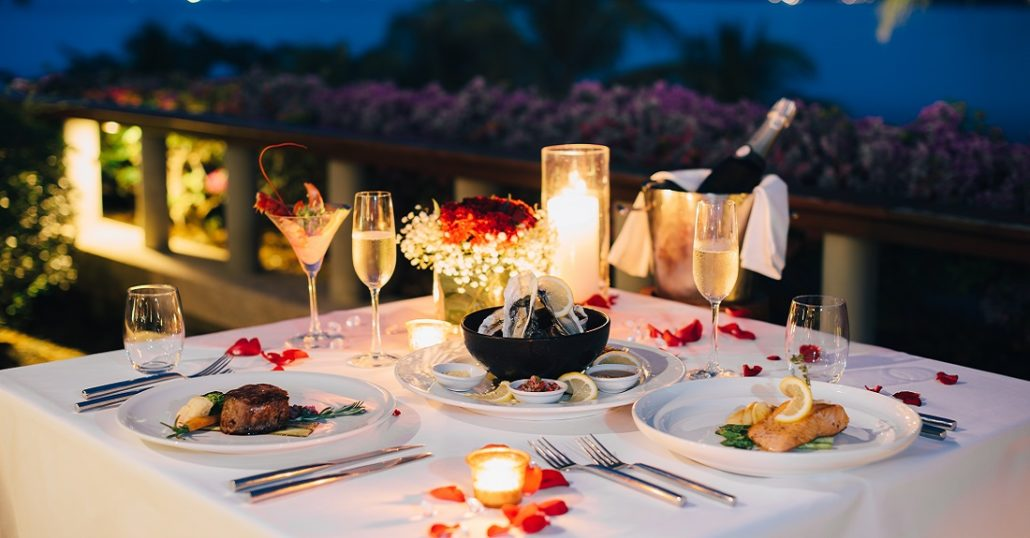
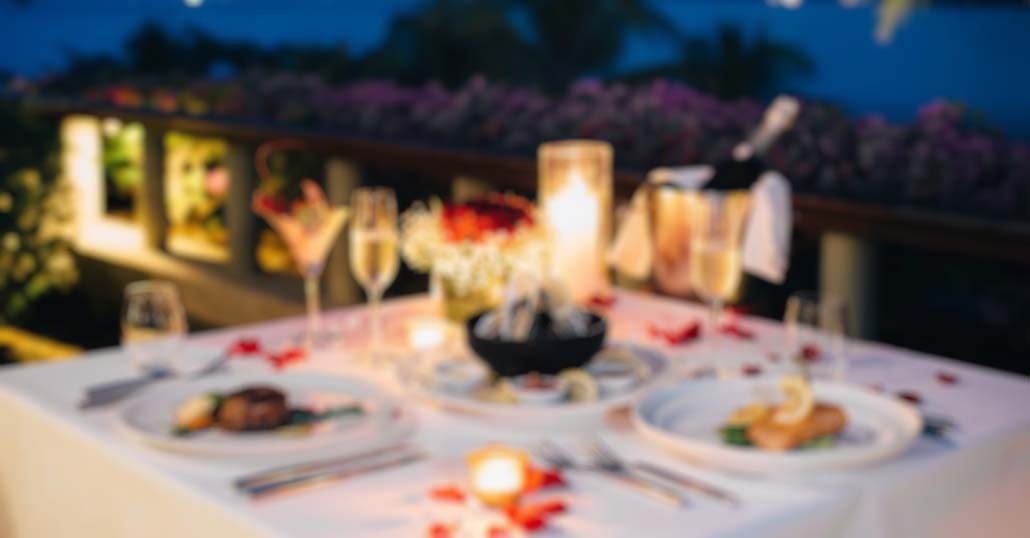
nav bar left buttons problem solved - blurred background

diff --git a/index.html b/index.html
@@ -17,26 +17,33 @@
             <header class="header">
                 <div class="nav_left">
                     <div class="logo">
-                        <a href="#home"
-                            ><img src="img/logos/logo.png" alt=""
-                        /></a>
+                        <a href="#home">
+                            <img
+                                src="img/logos/logo.png"
+                                alt="AWSI"
+                                title="AWSI"
+                            />
+                        </a>
                     </div>
-                    <hr />
-                    <a href="#1">
-                        <button><span class="icohome">Home</span></button>
-                    </a>
-                    <hr />
-                    <a href="#2">
-                        <button><span class="icoorder">Order</span></button>
-                    </a>
-                    <hr />
-                    <a href="#3">
-                        <button>
-                            <span class="icoaboutus">About Us</span>
-                        </button>
-                    </a>
-                    <hr />
+                    <div class="buttons">
+                        <hr />
+                        <a href="#1">
+                            <button><span class="icohome">Home</span></button>
+                        </a>
+                        <hr />
+                        <a href="#2">
+                            <button><span class="icoorder">Order</span></button>
+                        </a>
+                        <hr />
+                        <a href="#3">
+                            <button>
+                                <span class="icoabout">About us</span>
+                            </button>
+                        </a>
+                        <hr />
+                    </div>
                 </div>
+
                 <div class="nav_right">
                     <a href="#2">
                         <button><span>log in</span></button>
@@ -61,7 +68,7 @@
                                 laudantium accusantium at. Adipisci earum aut
                                 blanditiis velit nesciunt?
                             </p>
-                            <button>Order now!</button>
+                            <a href="#order"><button>Order now!</button></a>
                         </div>
                     </div>
                     <div class="card">
@@ -76,7 +83,7 @@
                                 laudantium accusantium at. Adipisci earum aut
                                 blanditiis velit nesciunt?
                             </p>
-                            <button>Order now!</button>
+                            <a href="#order"><button>Order now!</button></a>
                         </div>
                     </div>
                     <div class="card">
@@ -90,7 +97,7 @@
                                 placeat, assumenda laudantium accusantium at.
                                 Adipisci earum aut blanditiis velit nesciunt?
                             </p>
-                            <button>Order now!</button>
+                            <a href="#order"><button>Order now!</button></a>
                         </div>
                     </div>
                     <div class="card">
@@ -104,7 +111,7 @@
                                 placeat, assumenda laudantium accusantium at.
                                 Adipisci earum aut blanditiis velit nesciunt?
                             </p>
-                            <button>Order now!</button>
+                            <a href="#order"><button>Order now!</button></a>
                         </div>
                     </div>
                 </section>

diff --git a/style/style1.css b/style/style1.css
@@ -6,10 +6,9 @@
 html,
 body {
     height: 100%;
-    background-image: url(../img/food_bg_1.jpg);
+    background: url(../img/food_bg_1.jpg) center center fixed;
     background-size: cover;
     background-repeat: no-repeat;
-    background-position: center center fixed;
 }
 
 .wrap_body {
@@ -23,9 +22,76 @@ body {
     background-color: #264653;
     display: flex;
     align-items: center;
-    position: sticky;
     top: 0;
     z-index: 1;
+}
+
+.nav_left {
+    display: flex;
+    width: 50%;
+}
+
+.nav_left hr {
+    border: solid 1px rgba(255, 255, 255, 0.1);
+}
+
+.logo {
+    width: 50px;
+    padding: 10px;
+    display: flex;
+    align-items: center;
+    transition-duration: 0.2s;
+}
+
+.logo a img {
+    width: 100%;
+    transition-duration: 0.2s;
+}
+.logo img:hover {
+    transform: scale(1.3);
+}
+
+.buttons {
+    width: 100%;
+    display: flex;
+}
+.buttons a {
+    min-width: 20%;
+    max-width: 30%;
+    height: 100%;
+}
+
+.buttons a button {
+    width: 100%;
+    height: 100%;
+    background: #264653;
+    color: white;
+    font-size: 18px;
+    border: none;
+    transition: 0.3s;
+}
+
+.icohome {
+    max-height: 50px;
+    content: url(../img/icons/home.png);
+}
+
+.icoorder {
+    max-height: 40px;
+    content: url(../img/icons/ordernow.png);
+}
+
+.icoabout {
+    max-height: 50px;
+    content: url(../img/icons/aboutus.png);
+}
+
+.buttons a button:hover {
+    background: #356d83;
+}
+
+.buttons a button:hover span {
+    content: none;
 }
 .nav_right {
     width: 50%;
@@ -51,84 +117,6 @@ body {
 .nav_right button:hover span::after {
     content: " \00bb";
     transition-duration: 0.3s;
-}
-
-.nav_left {
-    display: flex;
-    width: 50%;
-}
-
-.nav_left button {
-    color: white;
-    height: 100%;
-    background: #264653;
-    width: 110px;
-    border: none;
-    font-size: 20px;
-    text-decoration: none;
-    transition-duration: 0.3s;
-}
-
-.nav_left button:hover {
-    background: #1c7792b9;
-    color: white;
-}
-
-.nav_left hr {
-    border: solid 1px rgba(255, 255, 255, 0.1);
-}
-
-.icohome {
-    content: url(../img/icons/home.png);
-    width: 50px;
-}
-
-.icoorder {
-    content: url(../img/icons/ordernow.png);
-    width: 50px;
-}
-
-.icoaboutus {
-    content: url(../img/icons/aboutus.png);
-    width: 50px;
-}
-
-.nav_left a button:hover span {
-    content: none;
-}
-
-/* .nav_left button {
-    background: #11c5fc;
-    width: 110px;
-    border: solid 2px #11c5fc;
-    margin: 5px;
-    padding: 10px;
-    font-size: 20px;
-    border-radius: 8px;
-    text-decoration: none;
-    transition-duration: 0.3s;
-}
-
-.nav_left button:hover {
-    background: #1c7792b9;
-    border: solid 2px white;
-    color: white;
-} */
-
-.logo {
-    margin: 10px;
-    margin-right: 40px;
-    display: flex;
-    align-items: center;
-    transition-duration: 0.2s;
-}
-
-.logo img {
-    width: 50px;
-    transition-duration: 0.2s;
-}
-.logo img:hover {
-    transform: scale(1.3);
 }
 
 .main {
